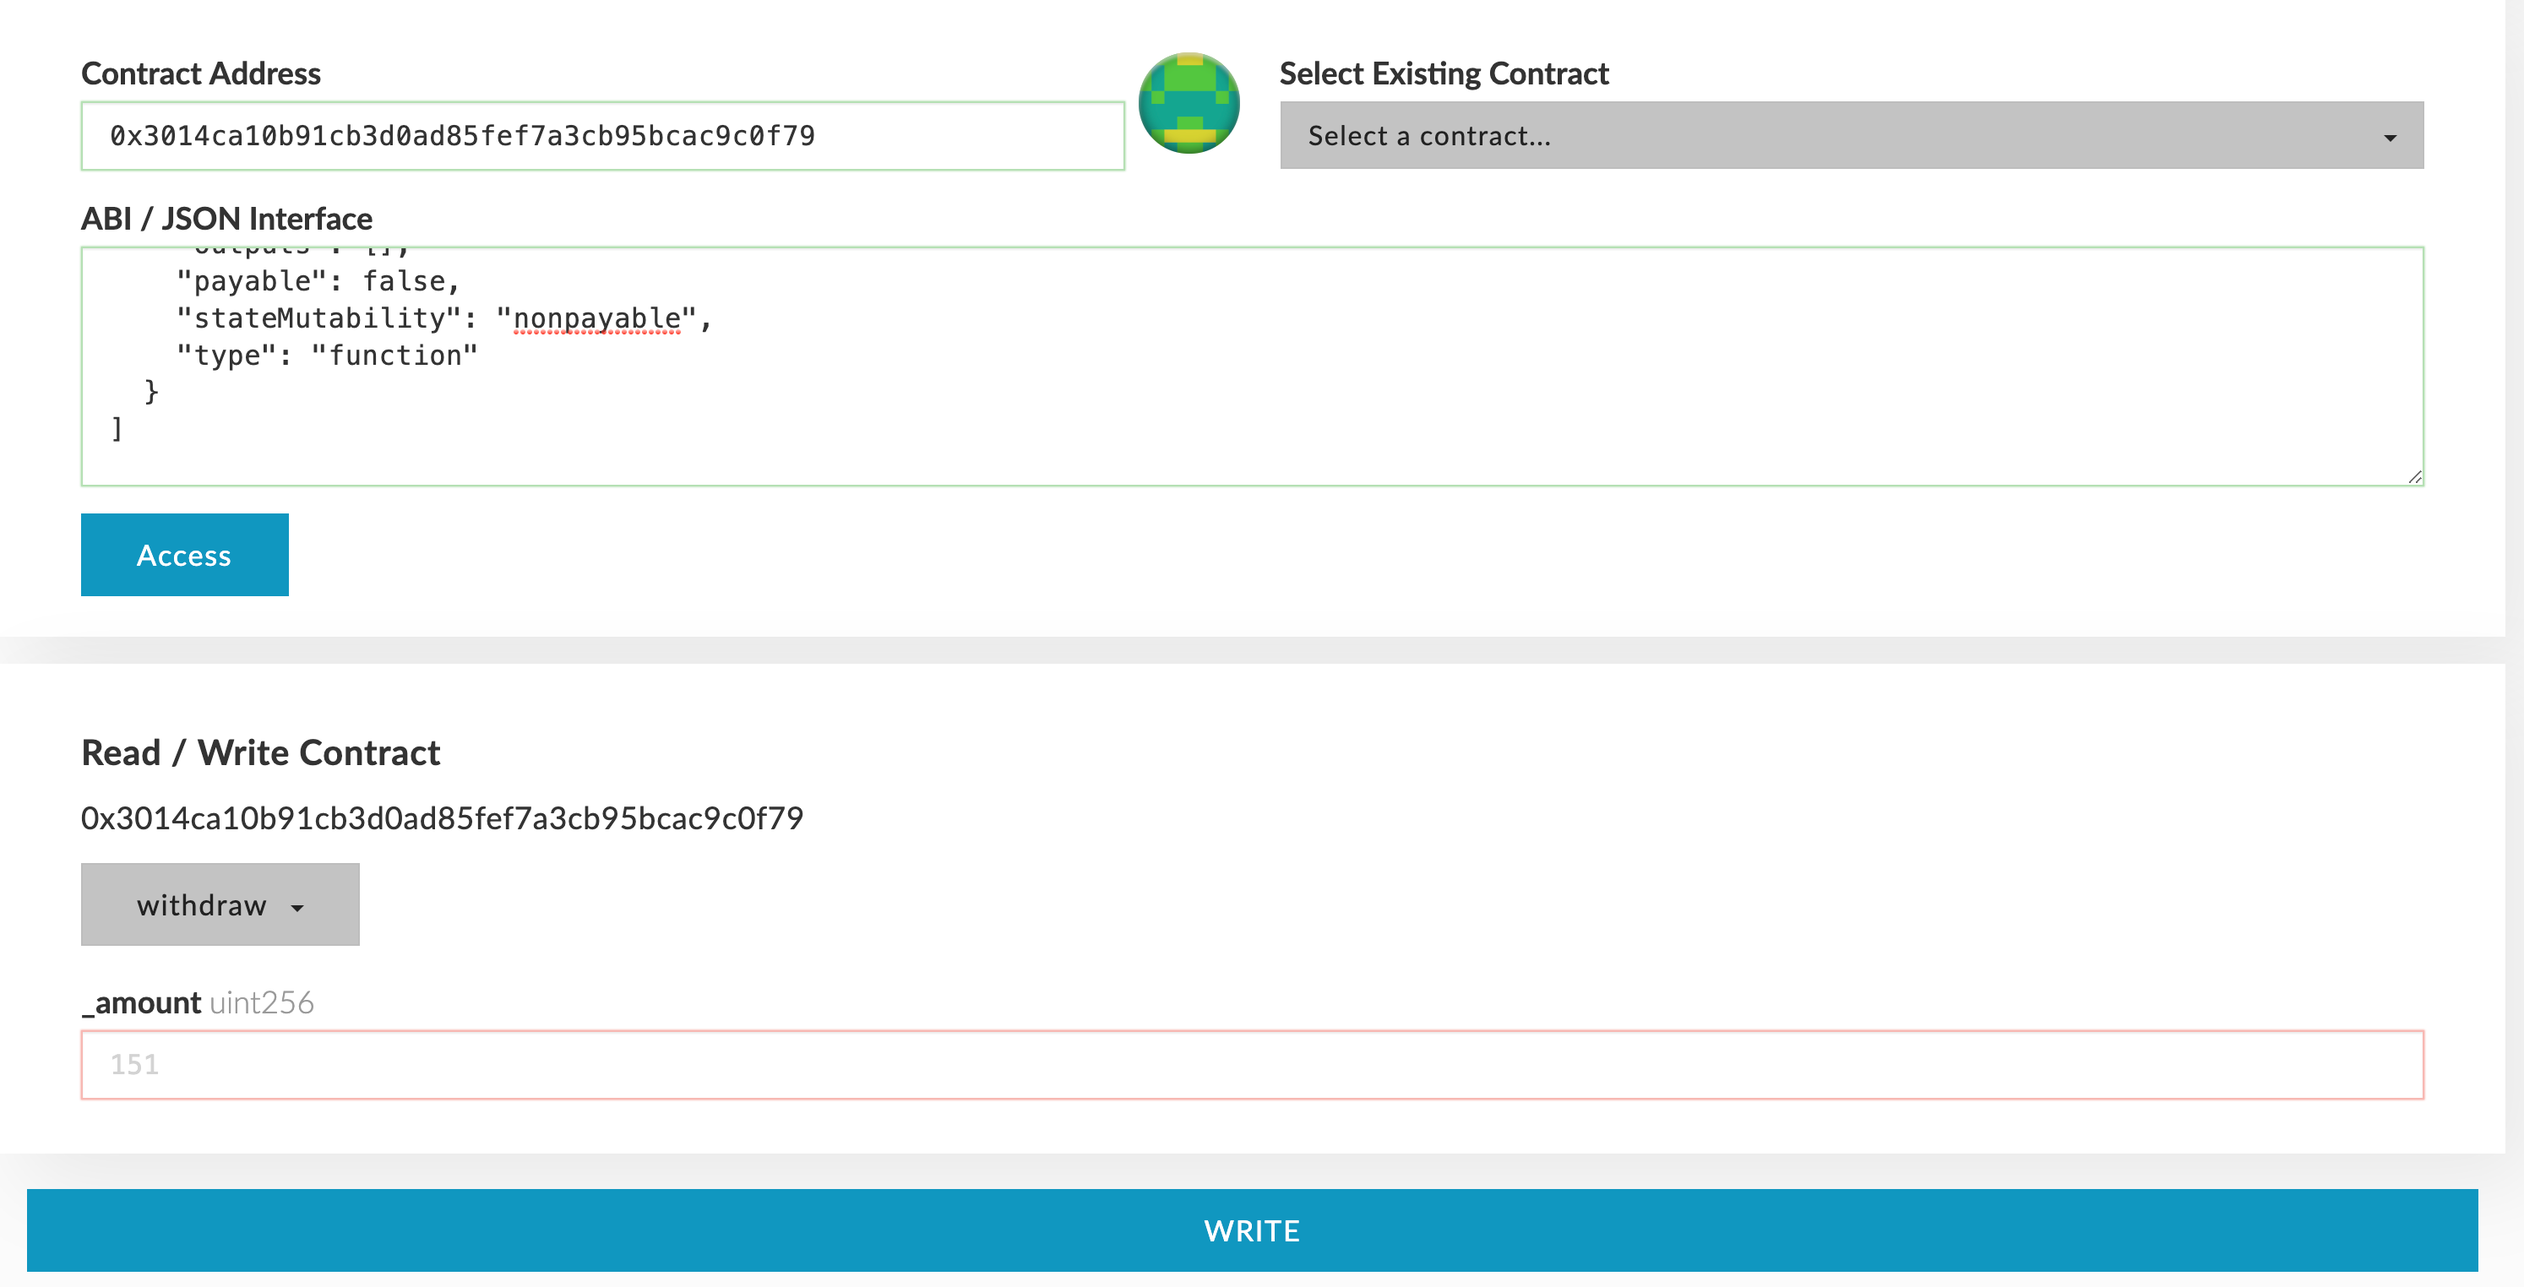
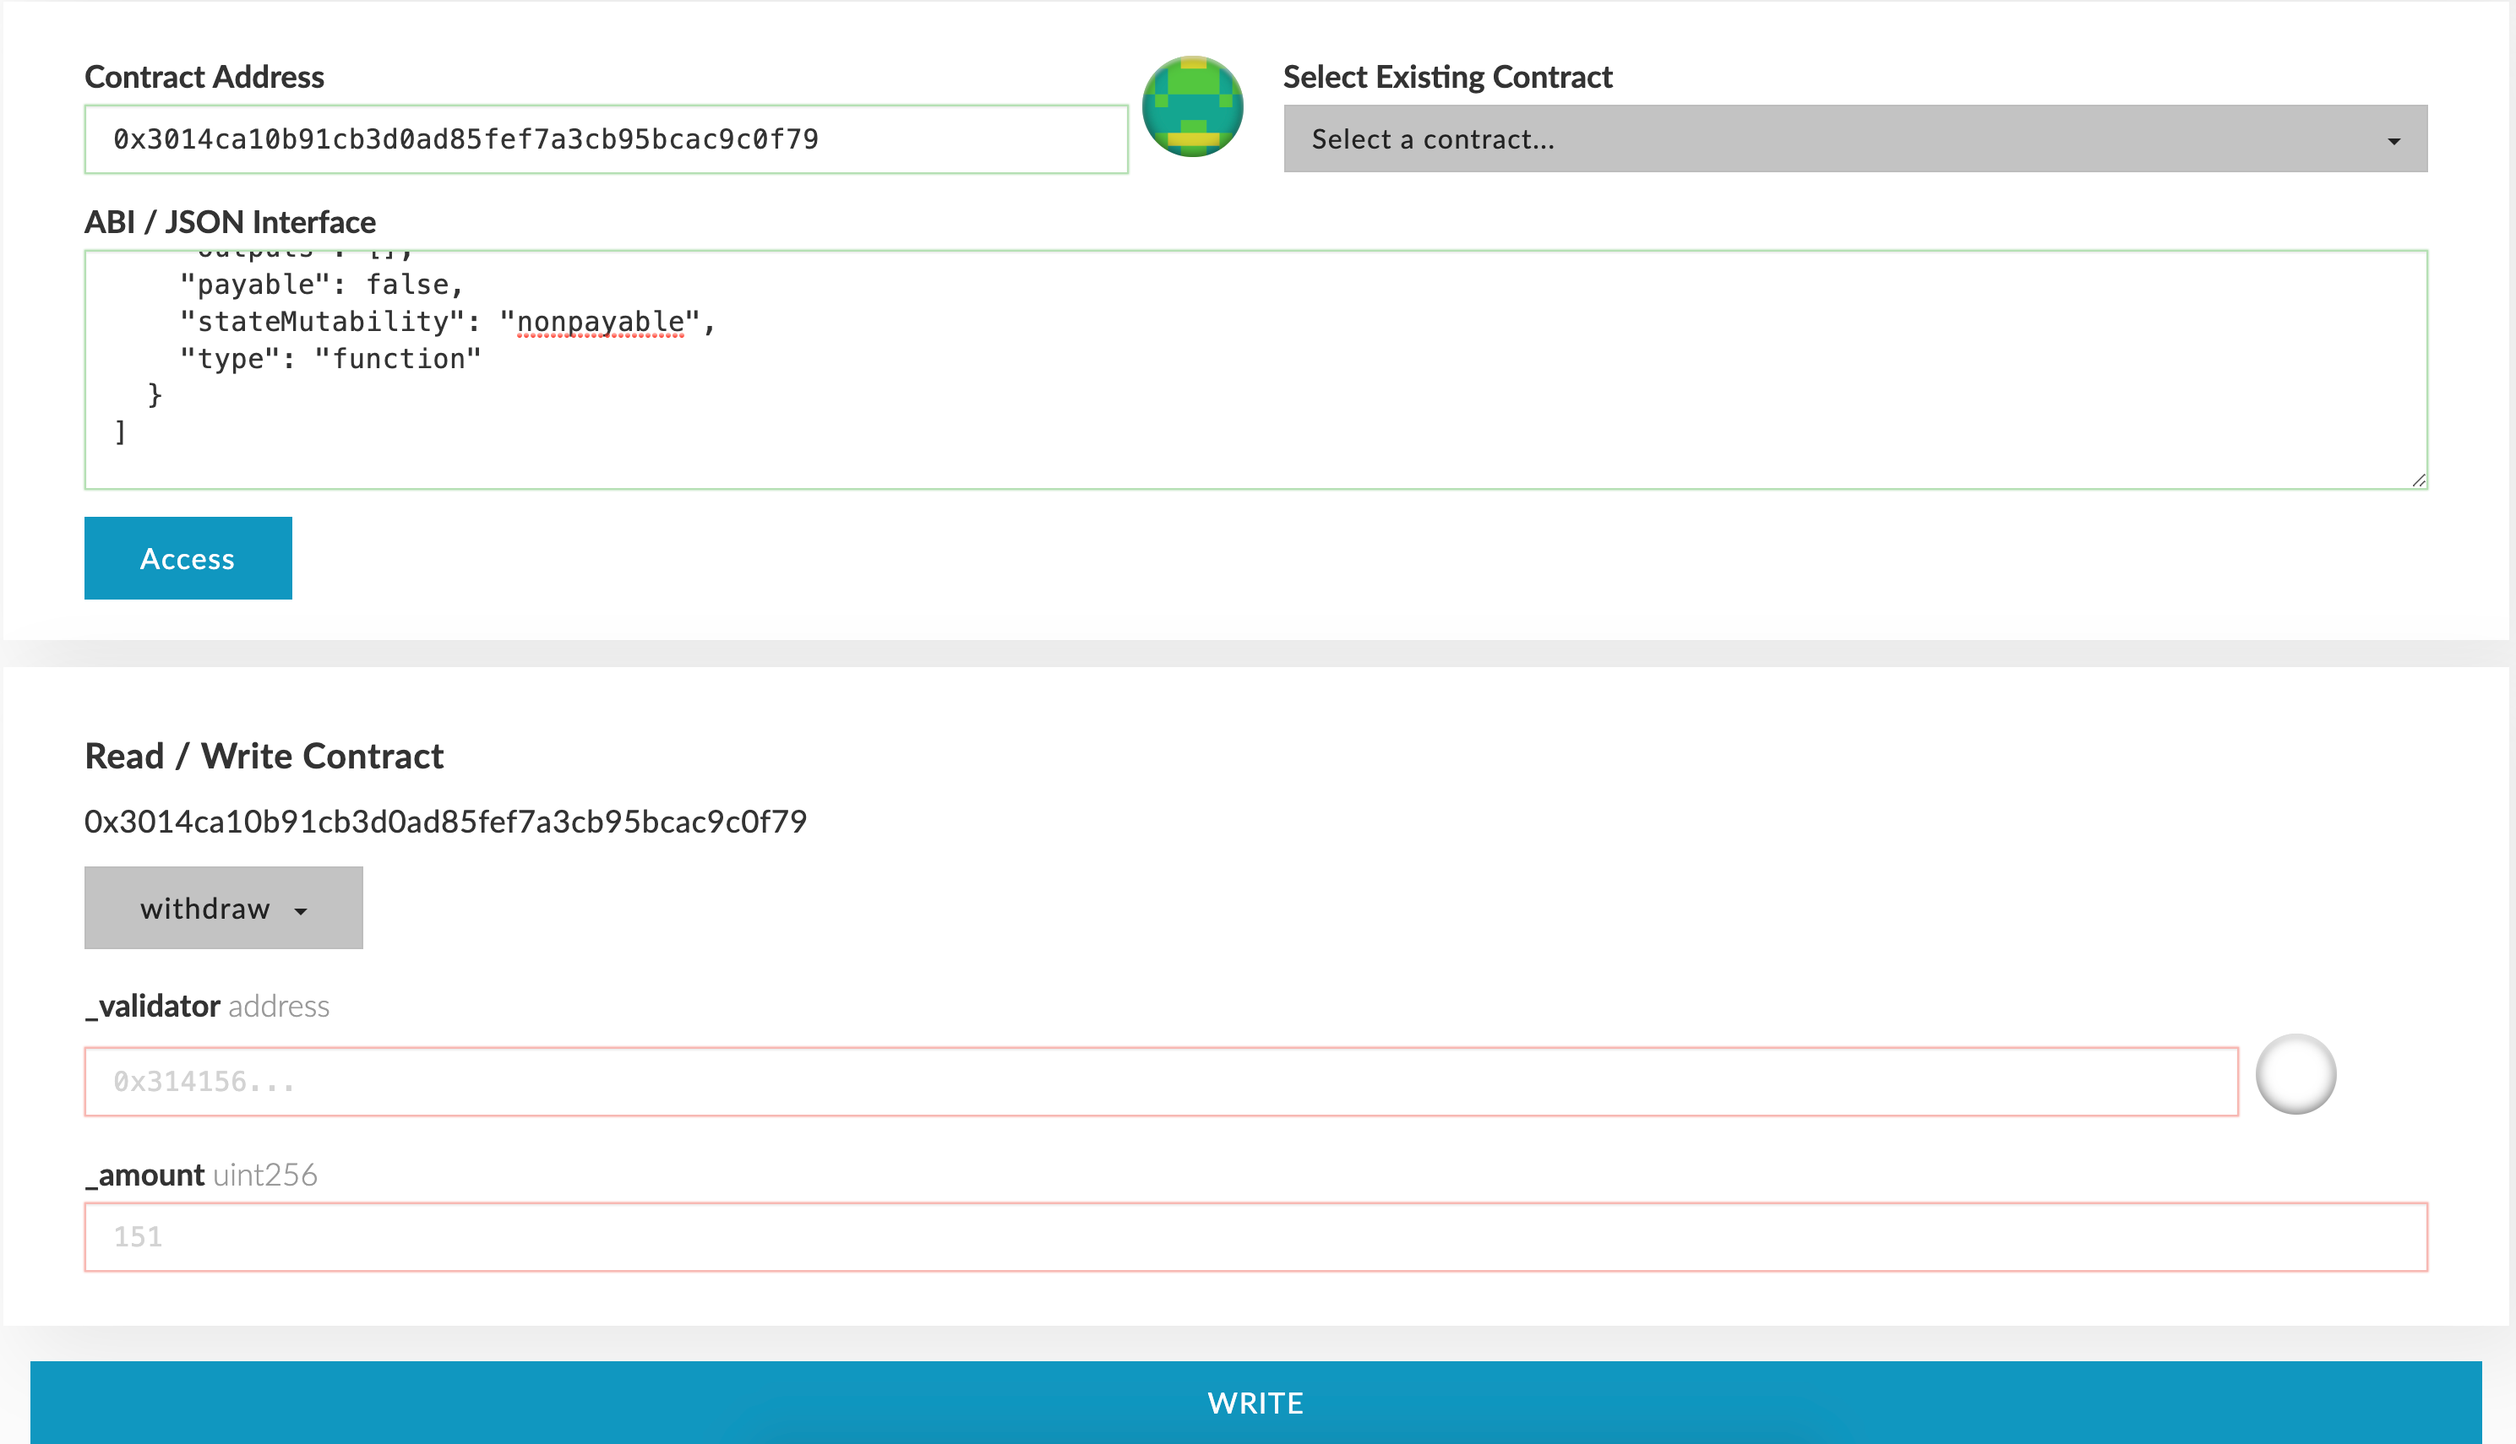
GitBook: [#17] Added the Vote subpage

diff --git a/network/untitled/end-of-cycle-flow.md b/network/untitled/end-of-cycle-flow.md
@@ -1,0 +1,38 @@
+---
+description: >-
+  This is a description of the End-of-Cycle flow that completes the Cycle and
+  handles rewards and enforces the consensus
+---
+
+# End-of-Cycle Flow
+
+1. BlockReward.reward is called every block and when the cycle ends calls the Consensus.cycle
+2. Consensus.cycle is responsible for several functions. Eventually does the following two actions:
+   1. Sets the boolean Consensus.ShouldEmitInitiateChange to true
+   2. Calls BlockReward.onCycleEnd which sets the boolean BlockReward.shouldEmitRewardedOnCycle to true as well
+3. The fuse-validator-app (fuseapp container on validator vms) checks the value of the above two booleans and when true calls the following two functions (two separate transactions):
+   1. Consensus.emitInitiateChange
+   2. BlockReward.emitRewardedOnCycle
+
+Note that only one validator can make this call successfully so the 1st one succeeds and all others fail. But it’s ok because those are 0-gas transactions. So actually the validator who is the next one to validate a block is the one who is successful in making those calls.
+
+1. The above calls emit the following events:
+   1. Consensus.InitiateChange
+   2. BlockReward.RewardedOnCycle
+2. The bridge oracles fuseoracle-initiate-change and fuseoracle-rewarded-on-cycle are responsible for listening to above events.
+3. Those oracles should run on all validators and call submitSignature on the HomeBridgeNativeToErc contract in fuse network - each validator should submit the signature for each of the oracles (events).
+4. Once enough validators have submitted their signatures (majority of the current validators), an event CollectedSignatures is emitted by the home bridge (again one event for each one of the previous events in section 4).
+5. The bridge oracle fuseoracle-collected-sigantures is responsible for listening to the CollectedSignature events and all validators should get it. The validator responsible for transmitting the transaction to mainnet is actually the last one to submit the signature in section 7 and its address is part of the event details so other validator oracles “know” it’s not their turn and skip the event. If a validator is down or out of money or infura is deaf - the next one in line (in the ValidatorSet) is responsible for transmitting to mainnet.
+6. Eventually on mainnet we are supposed to see two transactions to the ForeignBridgeNativeToErc each cycle - one updating the new validators and one minting the fuse tokens which were created during this cycle on fuse.
+
+Note that if the new validator set transactions fail on mainnet there’s a chance the minting will fails as well, because before transmitting it checks if all signatures are valid and there can be a situation where new validators were added on a cycle and were fast enough to submit their signatures on fuse end-of-cycle transactions but weren’t updated on mainnet due to failure of the 1st transactions so the 2nd one will actually contain “invalid” signatures from the mainnet perspective.
+
+
+
+Example for a successful flow (from 7/6/2020)
+
+1. Consensus.emitInitiateChange transaction on fuse - [https://explorer.fuse.io/tx/0xfc44d6ded7521fe00de3167b4845adc0df91df2021680cc3dea588179b14bdc4](https://explorer.fuse.io/tx/0xfc44d6ded7521fe00de3167b4845adc0df91df2021680cc3dea588179b14bdc4)
+2. BlockReward.emitRewardedOnCycle transaction on fuse - [https://explorer.fuse.io/tx/0x76ae7870209c878c1eb120ecde9704902d5c823d67df3ecd55e340aab89e97fe](https://explorer.fuse.io/tx/0x76ae7870209c878c1eb120ecde9704902d5c823d67df3ecd55e340aab89e97fe)
+3. Successful validators update transaction on mainnet - [https://etherscan.io/tx/0xf43b2abebd64537dbd7d834c9ac7a42ce8a925da5cb5278002ce0687187c8882](https://etherscan.io/tx/0xf43b2abebd64537dbd7d834c9ac7a42ce8a925da5cb5278002ce0687187c8882)
+4. Successful fuse minting transaction on mainnet - [https://etherscan.io/tx/0x2bd70ecbff6e84c18306701eb380e558a7340fab61aadf1af7690021aeeef5ce](https://etherscan.io/tx/0x2bd70ecbff6e84c18306701eb380e558a7340fab61aadf1af7690021aeeef5ce)
+

diff --git a/network/untitled/vote.md b/network/untitled/vote.md
@@ -1,0 +1,55 @@
+# Vote
+
+Fuse chain functionality can be change by voting on the contracts implementations. New implementations can be deployed, and opened to vote by validators for others to decide on whether to accept/reject the changes.
+
+## Open a new ballot
+
+In order to open a new vote, a validator needs to call the \`newBallot\` function on the [voting contract](https://explorer.fuse.io/address/0x4c889f137232E827c00710752E86840805A70484) with the following params:
+
+* startAfterNumberOfCycles - number of cycles (minimum 1) after which the ballot is open for voting
+* cyclesDuration - number of cycles (minimum 2) for the ballot to remain open for voting
+* contractType
+  * 1 - Consensus
+  * 2 - BlockReward
+  * 3 - ProxyStorage
+  * 4 - Voting
+* proposedValue - address of the new implementation deployed for the relevant contract type
+* description - text description which should contain the reason/change introduced in the ballot
+
+![new ballot](<../../.gitbook/assets/image (3).png>)
+
+## Check ballot info
+
+Everyone can check all the ballots that were created using the \`getBallotInfo\` function. This function receives two params:
+
+* id - the ballot id
+* key - account address
+
+![getBallotInfo](../../.gitbook/assets/image.png)
+
+## Vote
+
+Everyone can vote on open ballots, after the start block has passed and until the end block hasn't yet.
+
+It's important to note that at the end of a vote, only validators count towards the final result.
+
+Voting is done by calling the \`vote\` function, which receives two params:
+
+* id - the ballot id
+* choice - 1 is accept, 2 is reject
+
+![vote](<../../.gitbook/assets/image (6).png>)
+
+Some other useful functions on the [voting contract](https://explorer.fuse.io/address/0x4c889f137232E827c00710752E86840805A70484) are:
+
+## getQuorumState
+
+Returns the state of a specific ballot id: 1 - in progress, 2 - accepted, 3 - rejected
+
+## getAccepted/getRejected
+
+Returns the number of accepts/reject of a specific ballot id.
+
+## activeBallots
+
+Returns an array of active ballot ids.

diff --git a/network/untitled/stake-delegate-and-withdraw.md b/network/untitled/stake-delegate-and-withdraw.md
@@ -19,9 +19,9 @@ Fuse token holders who don't want to run a node by themselves but still wish to 
 
 Delegating is done by calling the \`delegate\` function on the [consensus contract](https://explorer.fuse.io/address/0x3014ca10b91cb3d0ad85fef7a3cb95bcac9c0f79) with the validator address as data (see screenshot from MEW).
 
-![delegate](../../.gitbook/assets/image.png)
+![delegate](<../../.gitbook/assets/image (1).png>)
 
-Withdraw
+## Withdraw
 
 Both stakers and validators can withdraw their Fuse tokens, up to the staked/delegated amount, at any time. The withdrawn amount will be deducted from the validator stake amount, and if the stake amount becomes below the minimum stake amount - the validator will be removed from the Fuse chain validators list.
 
@@ -30,6 +30,6 @@ There are two options to withdraw:
 1. Call the \`withdraw\` function on the [consensus contract](https://explorer.fuse.io/address/0x3014ca10b91cb3d0ad85fef7a3cb95bcac9c0f79) with one parameter - the amount to withdraw. This call is for stakers, and will reduce the stake amount of the sender address.
 2. Call the \`withdraw\` function on the [consensus contract](https://explorer.fuse.io/address/0x3014ca10b91cb3d0ad85fef7a3cb95bcac9c0f79) with two parameters - validator address and amount to withdraw. This call is for both stakers (who can use their own address as the parameter) and for delegators to withdraw their delegated stake on a specific validator.
 
-![withdraw option no. 1](<../../.gitbook/assets/image (2).png>)
+![withdraw option no. 1](<../../.gitbook/assets/image (7).png>)
 
-![withdraw option no. 2](<../../.gitbook/assets/image (1).png>)
+![withdraw option no. 2](<../../.gitbook/assets/image (2).png>)

diff --git a/SUMMARY.md b/SUMMARY.md
@@ -21,9 +21,12 @@
   * [Getting started as a validator](network/how-to-become-a-validator/getting-started-as-a-validator.md)
   * [Getting started as a validator on the Spark testnet](network/how-to-become-a-validator/getting-started-as-a-validator-on-the-spark-testnet.md)
 * [FIP's](network/fips.md)
-* [Fuse Consensus](network/untitled/README.md)
+* [Fuse Consensus](network/untitled.md)
   * [Contracts Overview](network/untitled/contracts-overview.md)
   * [Stake, Delegate and Withdraw](network/untitled/stake-delegate-and-withdraw.md)
+  * [Vote](network/untitled/vote.md)
+  * [End-of-Cycle Flow](network/untitled/end-of-cycle-flow.md)
+  * [Contract Addresses](network/untitled/contract-addresses.md)
 
 ## Fuse Network Contracts <a href="bridges" id="bridges"></a>
 

diff --git a/network/untitled/contract-addresses.md b/network/untitled/contract-addresses.md
@@ -1,0 +1,7 @@
+# Contract Addresses
+
+| Contract     | Fuse Network address                       | Spark Testnet address |
+| ------------ | ------------------------------------------ | --------------------- |
+| Consensus    | 0x3014ca10b91cb3D0AD85fEf7A3Cb95BCAc9c0f79 |                       |
+| Block Reward | 0x63D4efeD2e3dA070247bea3073BCaB896dFF6C9B |                       |
+| Voting       |                                            |                       |

diff --git a/network/untitled.md b/network/untitled.md
@@ -8,7 +8,7 @@ Consensus is a fault-tolerant mechanism that is used in blockchain systems to ac
 
 
 
-![](<../../.gitbook/assets/image (5).png>)
+![](<../.gitbook/assets/image (5).png>)
 
 Consensus contract is used to manage the list of the network validators and delegators
 

diff --git a/network/untitled/contracts-overview.md b/network/untitled/contracts-overview.md
@@ -1,3 +1,3 @@
 # Contracts Overview
 
-![](<../../.gitbook/assets/image (3).png>)
+![](<../../.gitbook/assets/image (8).png>)
